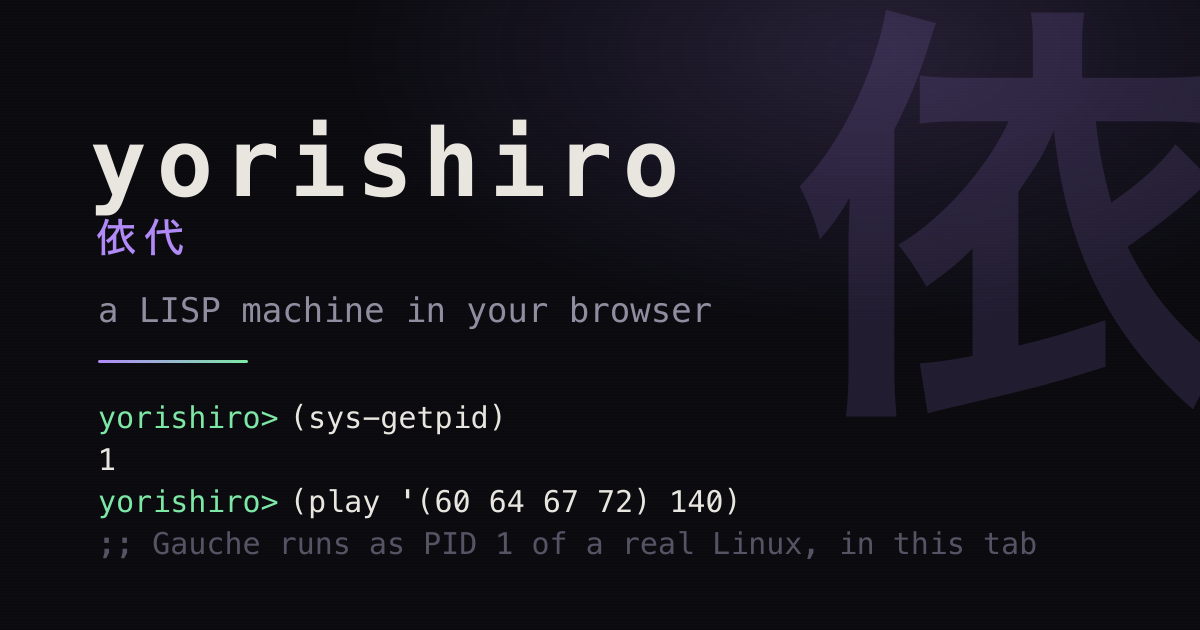
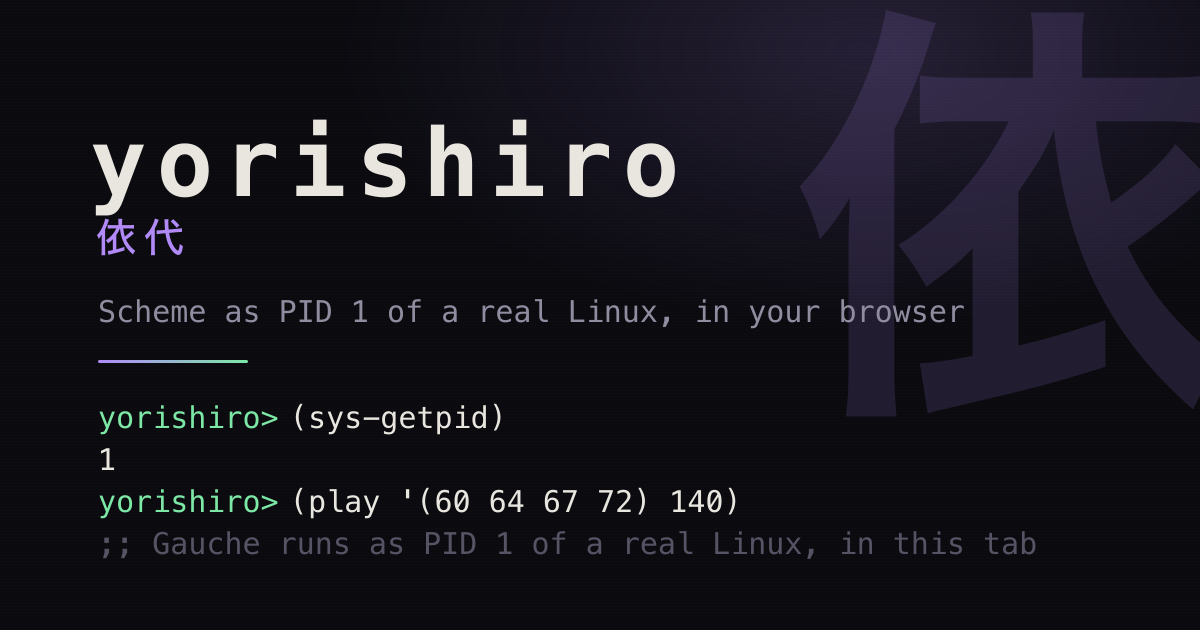
Correct framing: not a historical LISP machine; Scheme as PID 1
Retire the 'a LISP machine' claim (page, titles, OG image, docs) in
favor of the accurate 'Scheme as PID 1 of a real Linux'. Regenerate the
OG card. Replace the fake quine with a true self-reproducing one.

Changed region(s): [[0.0617, 0.4524, 0.8017, 0.5127]]

diff --git a/web/app/layout.tsx b/web/app/layout.tsx
@@ -8,10 +8,10 @@ const DESCRIPTION =
 
 export const metadata: Metadata = {
   metadataBase: new URL("https://yorishiro.lolipop-now.app"),
-  title: "yorishiro — a LISP machine in your browser",
+  title: "yorishiro — Scheme as PID 1 of a browser Linux",
   description: DESCRIPTION,
   openGraph: {
-    title: "yorishiro 依代 — a LISP machine in your browser",
+    title: "yorishiro 依代 — Scheme as PID 1 of a browser Linux",
     description: DESCRIPTION,
     url: "/",
     siteName: "yorishiro",
@@ -20,7 +20,7 @@ export const metadata: Metadata = {
   },
   twitter: {
     card: "summary_large_image",
-    title: "yorishiro 依代 — a LISP machine in your browser",
+    title: "yorishiro 依代 — Scheme as PID 1 of a browser Linux",
     description: DESCRIPTION,
     images: ["/og.png"],
   },

diff --git a/web/src/examples.ts b/web/src/examples.ts
@@ -338,10 +338,11 @@ export const EXAMPLES: readonly Example[] = [
     id: "quine",
     category: "tricks",
     title: "A quine",
-    blurb: "A program that prints its own source. The machine contemplates itself.",
+    blurb:
+      "Evaluates to a copy of its own source. The machine reproduces itself.",
     code:
-      "((lambda (s) (print s) (write s) (newline))\n" +
-      '  "((lambda (s) (print s) (write s) (newline))  ")',
+      "((lambda (x) (list x (list (quote quote) x)))\n" +
+      " (quote (lambda (x) (list x (list (quote quote) x)))))",
   },
   {
     id: "ackermann",

diff --git a/web/app/how/page.tsx b/web/app/how/page.tsx
@@ -5,7 +5,7 @@ import Link from "next/link";
 export const metadata: Metadata = {
   title: "yorishiro — how it works",
   description:
-    "The construction of a browser LISP machine: Buildroot, Gauche as " +
+    "The construction of a browser Linux with Gauche Scheme as PID 1: Buildroot, Gauche as " +
     "PID 1, the v86 Wasm emulator, and a serial-port MIDI jack — plus a " +
     "tutorial for programming the machine.",
 };

diff --git a/web/components/machine-console.tsx b/web/components/machine-console.tsx
@@ -258,7 +258,7 @@ export function MachineConsole(): ReactNode {
         <h1 className="wordmark">
           yorishiro <span className="kanji">依代</span>
         </h1>
-        <p className="tagline">a LISP machine in your browser</p>
+        <p className="tagline">Scheme as PID 1 of a real Linux, in your browser</p>
         <Link className="nav-link" href="/how">
           how it works ↗
         </Link>

diff --git a/.claude/CLAUDE.md b/.claude/CLAUDE.md
@@ -2,7 +2,7 @@
 
 ## What this is
 
-Browser-based LISP machine: Buildroot-built minimal Linux with Gauche Scheme
+Browser-based Linux with Gauche Scheme as PID 1: Buildroot-built minimal Linux with Gauche Scheme
 as PID 1, booted in a Wasm x86 emulator on a web page. Nerves-style
 construction, language swapped to Scheme.
 

diff --git a/README.md b/README.md
@@ -1,6 +1,6 @@
 # yorishiro
 
-A LISP machine in your browser: a Nerves-style minimal Linux whose PID 1 is
+Scheme as PID 1 of a browser Linux: a Nerves-style minimal Linux whose PID 1 is
 [Gauche Scheme](https://practical-scheme.net/gauche/), booted entirely inside
 a WebAssembly x86 emulator.
 
